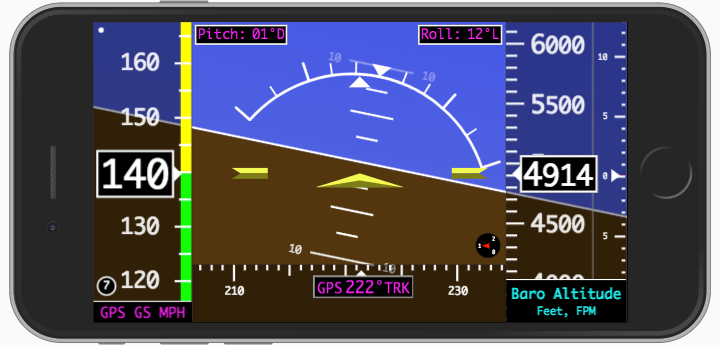
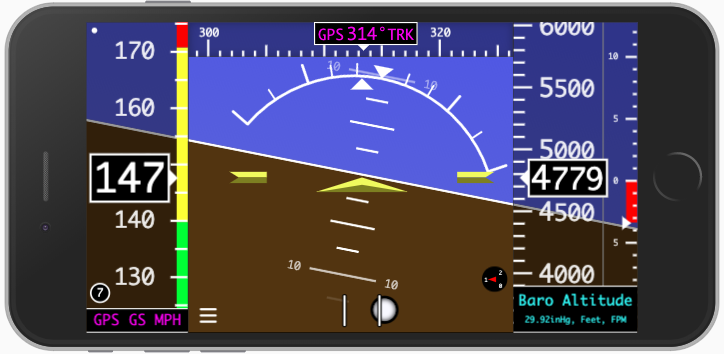
Centered Slip/Skid ball under the horizon bars, updated demo screenshot to show new gps tape location.

diff --git a/script.js b/script.js
@@ -65,8 +65,7 @@ function systemInit() {
       headingTape.update(+interval_val);
       ahrsTape.update(Math.sin(interval_val / 10) * 7, Math.cos(interval_val / 15 + 0.7) * 12);
       speedTape.update(Math.sin(interval_val / 20 + 0.5) * 9 + 70);
-      // altTape.update(Math.cos(interval_val / 18 + 0.3) * 75 + 1423);
-      altTape.update(273.71);
+      altTape.update(Math.cos(interval_val / 18 + 0.3) * 75 + 1423);
       vspeedTape.update(Math.sin(interval_val / 18 + 0.3) * 200 + 4);
       slipSkid.update(Math.sin(interval_val / 27));
       satCount.update(7);

diff --git a/css/style.css b/css/style.css
@@ -735,7 +735,7 @@ body {
   height: 55px;
   position: relative;
   bottom: 20px;
-  left: calc(50% - 35px);
+  left: calc(50% - 15px);
 }
 
 .slip_skid_bar {
